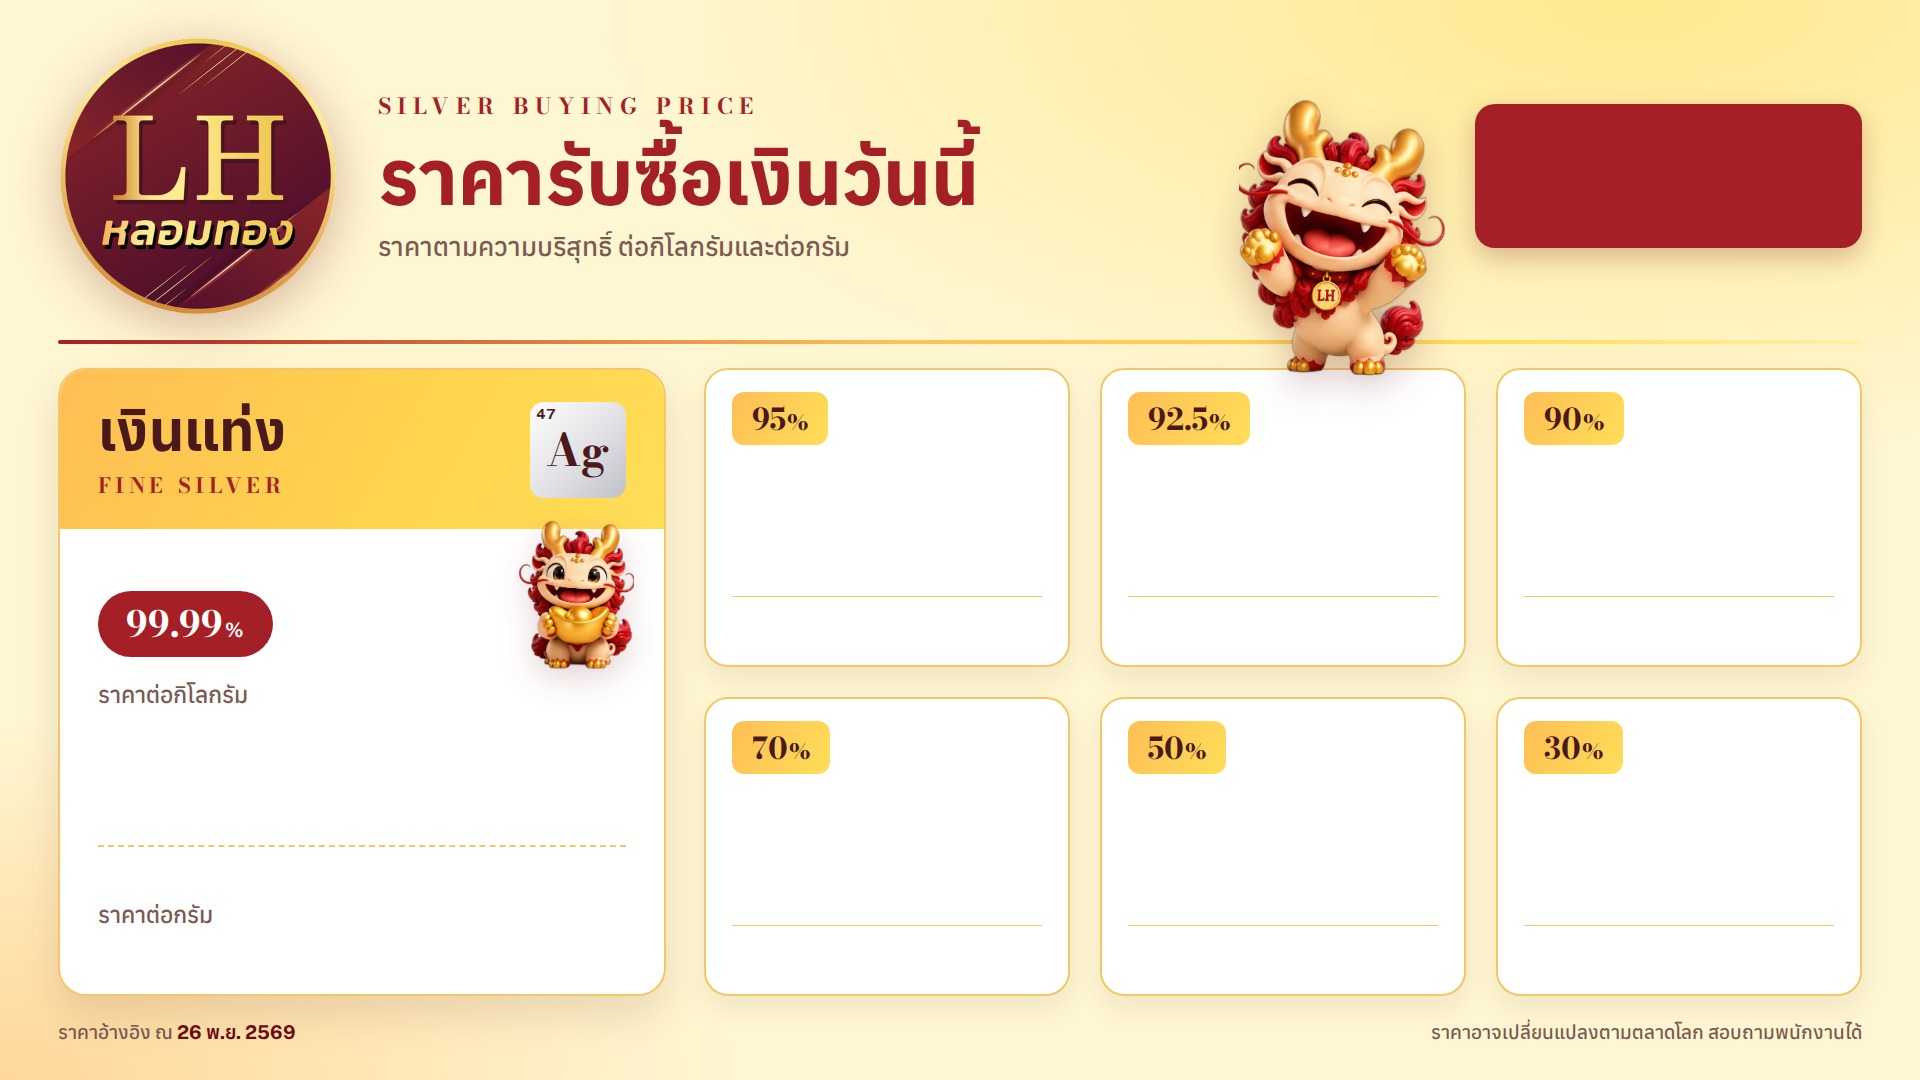
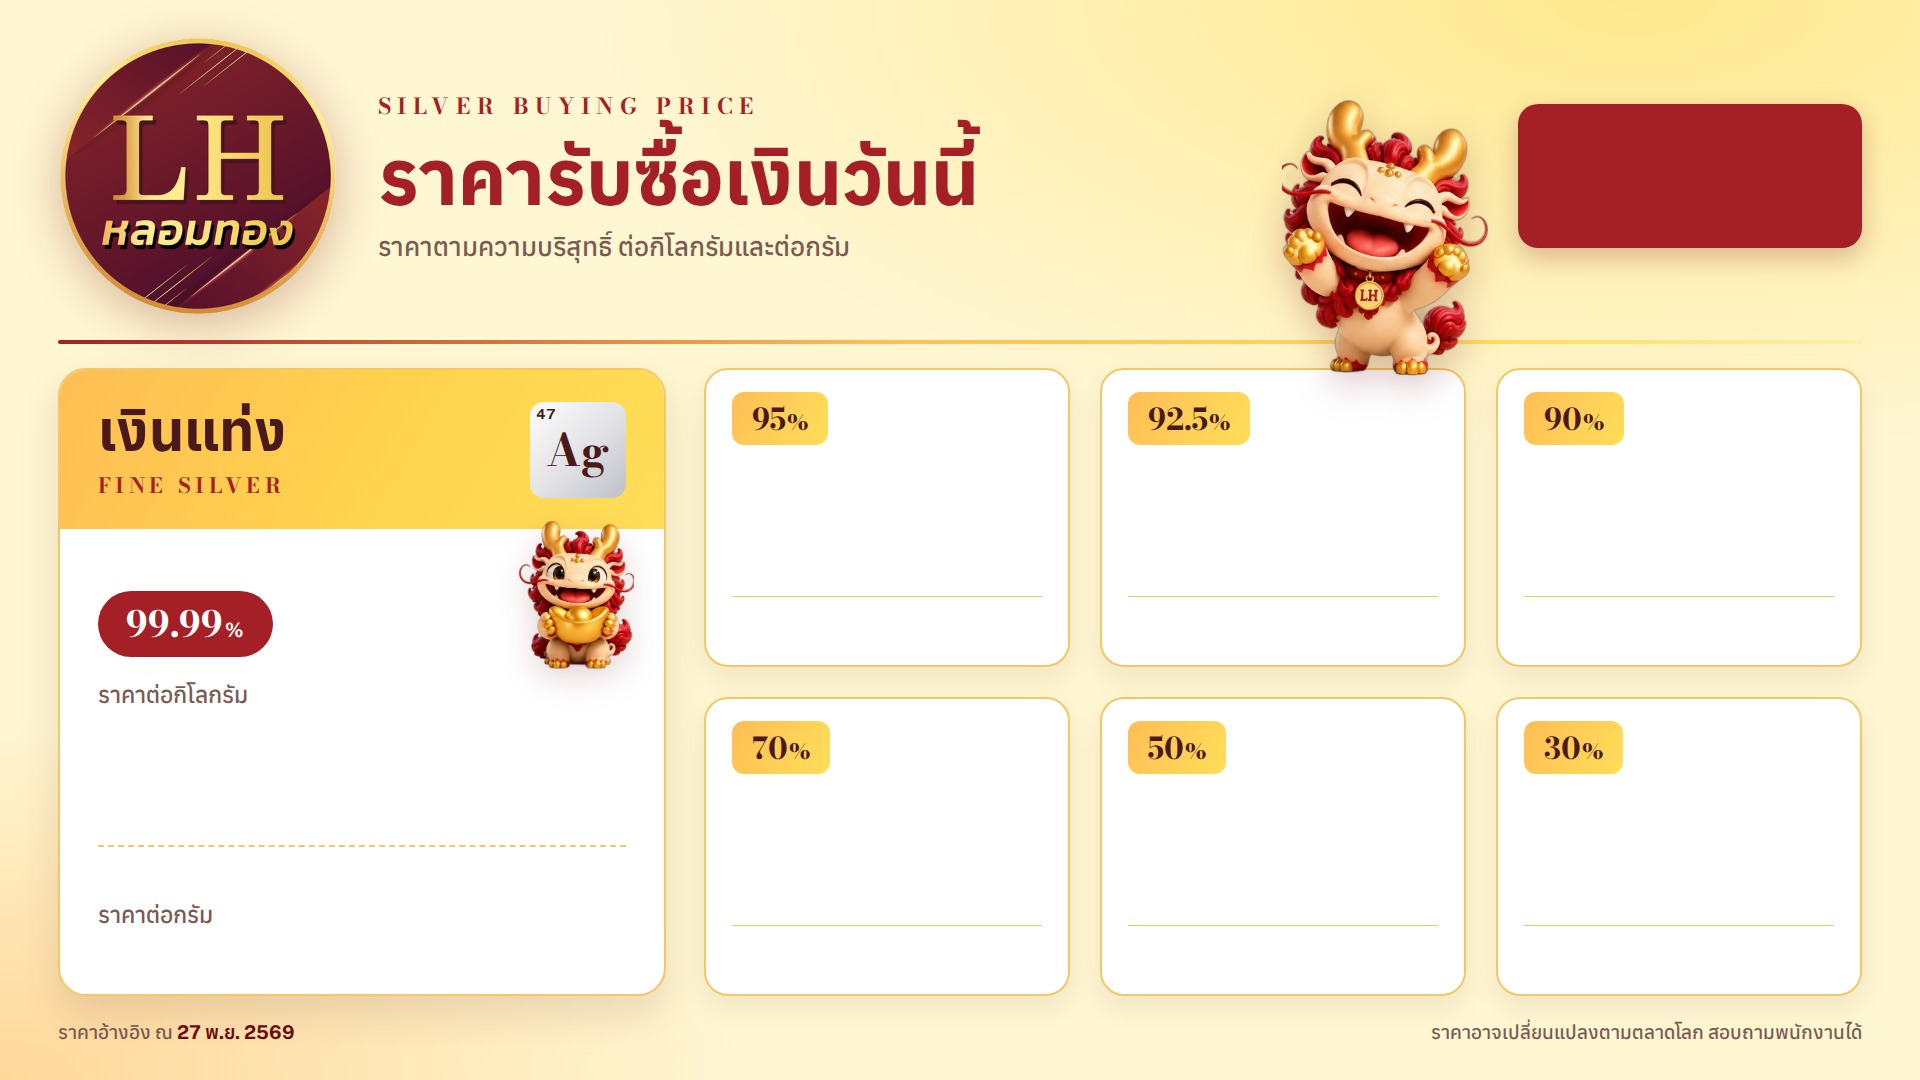
Update prices 2026-11-27

Changed region(s): [[0.625, 0.0917, 0.8125, 0.3667], [0.0938, 0.9472, 0.1562, 0.9778]]

diff --git a/board.html b/board.html
@@ -302,15 +302,15 @@ html{-webkit-text-size-adjust:100%;text-size-adjust:100%}
      ราคาแต่ละเกรด = ราคาเงินหลังหัก × เปอร์เซ็นต์ (99.99% ใช้ราคาเต็ม)
    showSilver = เปิด/ปิดหน้าราคาเงิน, rotateSeconds = เปลี่ยนหน้าทุกกี่วินาที */
 const CONFIG = {
-  asOf: "26 พ.ย. 2569",
-  fx: 33.94,
+  asOf: "27 พ.ย. 2569",
+  fx: 34.04,
   discount: 0.20,
   rotateSeconds: 15,
   showSilver: true,
   metals: [
-    { th:"แพลตินัม",  en:"Platinum",  sym:"Pt", z:78, usdPerGram:41.9245 },
-    { th:"แพลเลเดียม", en:"Palladium", sym:"Pd", z:46, usdPerGram:27.8425 },
-    { th:"โรเดียม",    en:"Rhodium",   sym:"Rh", z:45, usdPerGram:262.03, discount:0.40 }
+    { th:"แพลตินัม",  en:"Platinum",  sym:"Pt", z:78, usdPerGram:43.8214 },
+    { th:"แพลเลเดียม", en:"Palladium", sym:"Pd", z:46, usdPerGram:28.9035 },
+    { th:"โรเดียม",    en:"Rhodium",   sym:"Rh", z:45, usdPerGram:255.6, discount:0.40 }
   ],
   silver: { pricePerKg: 55000, grades: [95, 92.5, 90, 70, 50, 30] }
 };
